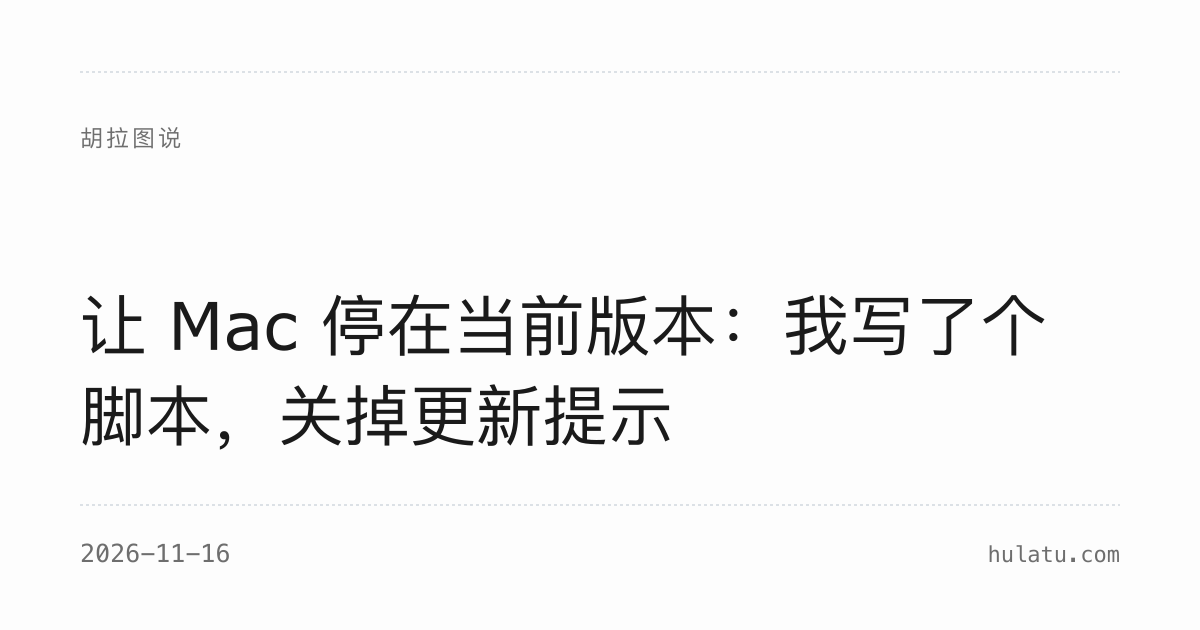
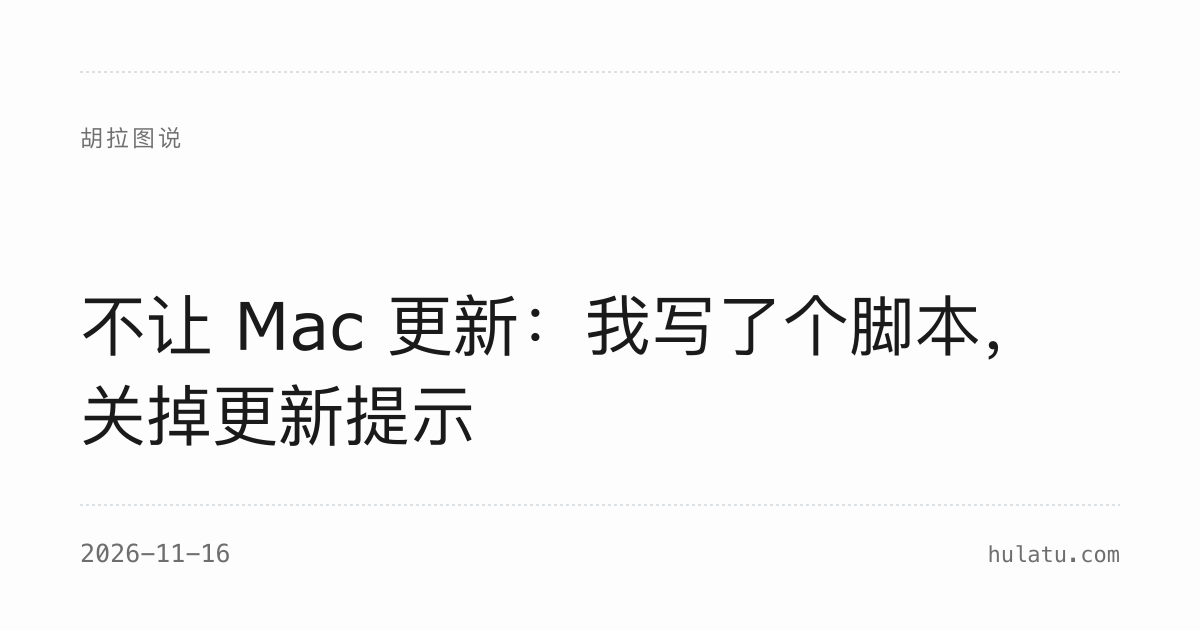
博客：新增/修改文章

Changed region(s): [[0.0617, 0.4524, 0.8633, 0.573], [0.0617, 0.6032, 0.555, 0.7238]]

diff --git a/content/weekly/胡拉图的周刊-第30期.md b/content/weekly/胡拉图的周刊-第30期.md
@@ -1,7 +1,7 @@
 ---
 title: "胡拉图的周刊-第30期"
 date: 2026-11-15T11:50:52+08:00
-lastmod: 2026-11-15T21:47:57+08:00
+lastmod: 2026-11-16T17:37:05+08:00
 slug: "newsletter-30"
 summary: "我们比世界更早认识你，却从未拥有你。"
 description: "这周的期刊，主要记录一下我的文章被少数派首页推荐、发布，我也成为了少数派签约作者，并且获得第一笔收入；呼吁大家减少刷视频、主动利用视频资源；设置自己的「不值得清单」；尝试用 WorkBuddy 剪视频；尝试编写自己的小工具；分享了几个比较实用简洁的小工具。"
@@ -112,7 +112,7 @@ draft: false
 
 ### 追踪零食摄入的 APP
 
-出处：[我做了一个能「抓你吃零食」的 App：SnackGuard 开发故事 - 少数派](https://sspai.com/post/106791)
+出处：[我做了一个能「抓你吃零食」的 App](https://sspai.com/post/106791)
 
 这是个什么天才哈哈哈，居然能奇思妙想到如此地步——通过 iPhone 的状态检测或者 Apple Watch 的感应，推测我们是不是在某些时间段在吃零食，给我们提醒？让我们自我审视。
 
